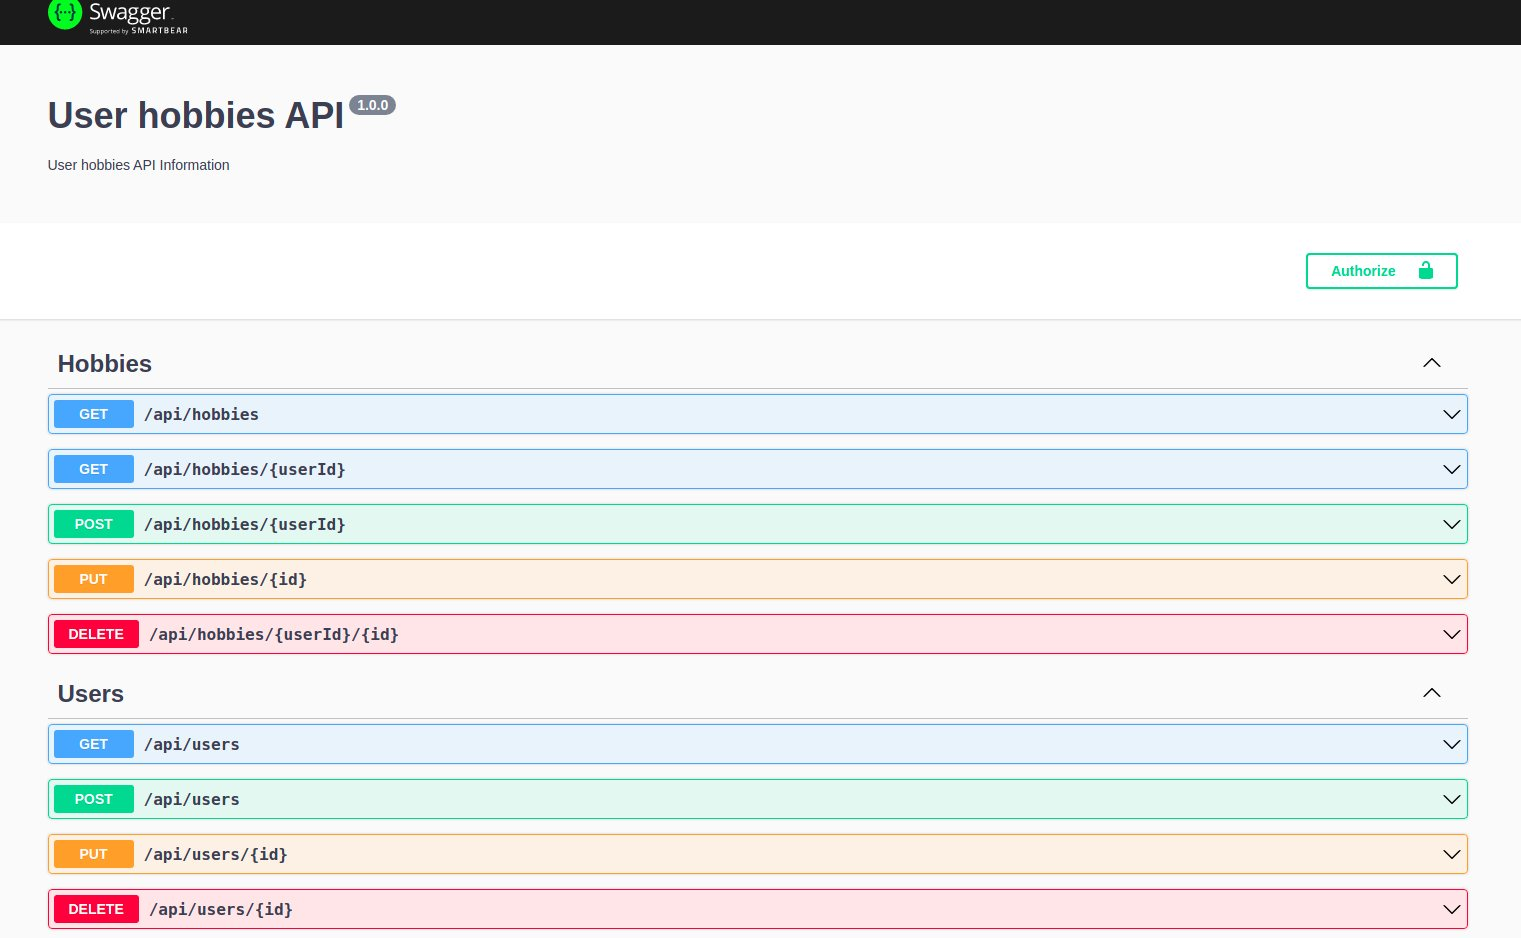
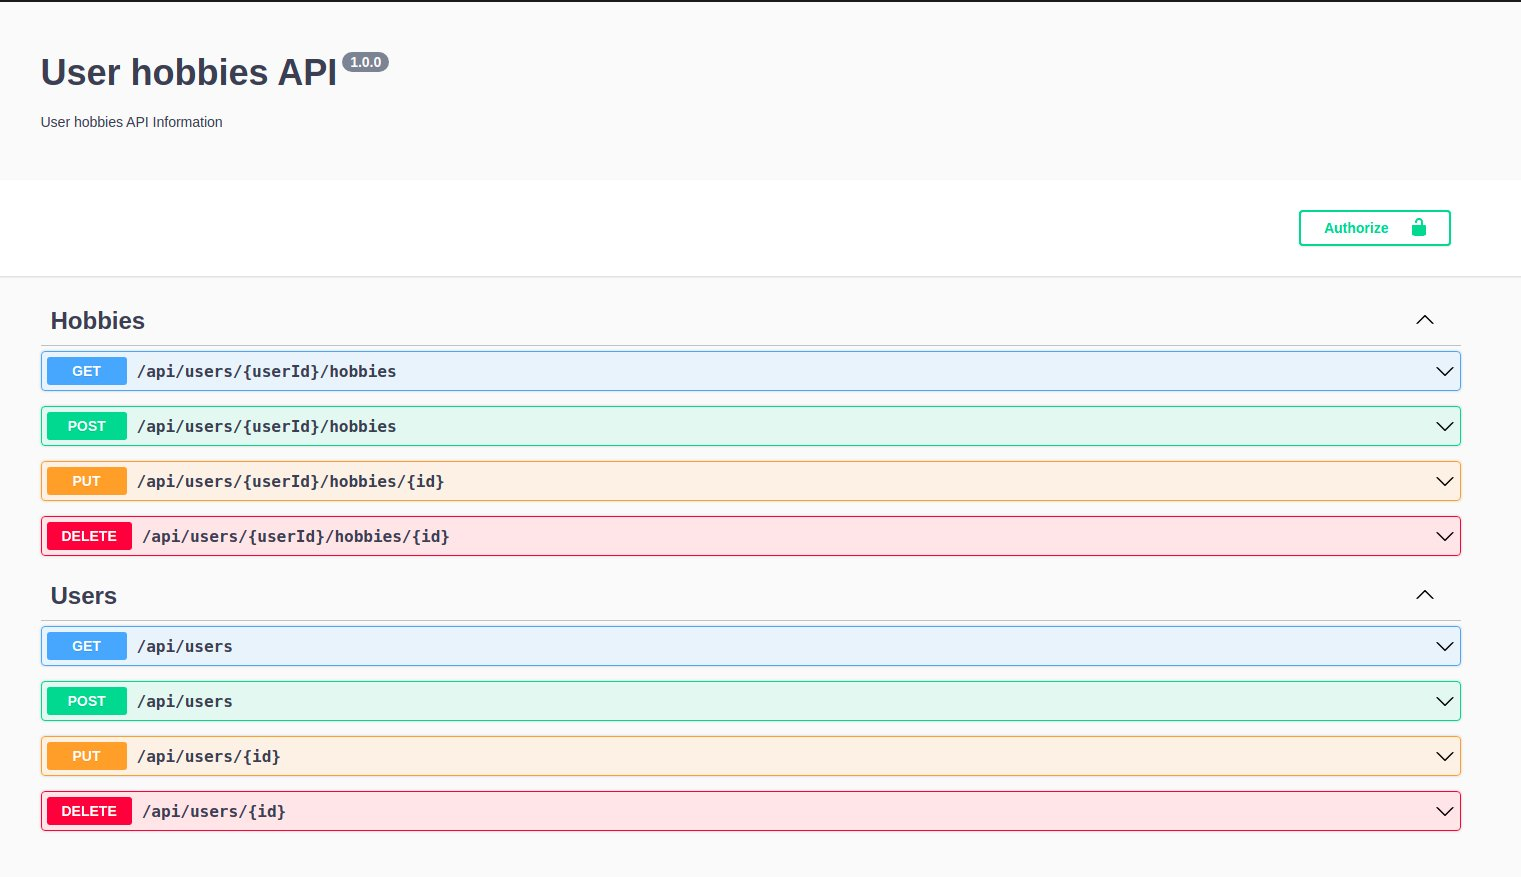
Update the hobbies endpoint
- Update the read me file
- Added config file
- Update the test case

Changed region(s): [[0.0, 0.3387, 0.9888, 1.0], [0.0, 0.0, 1.0, 0.1847], [0.8343, 0.2155, 0.9579, 0.3387]]

diff --git a/test/hobbies.test.ts b/test/hobbies.test.ts
@@ -21,8 +21,8 @@ describe('Hobbies', () => {
         await HobbiesModel.deleteMany({});
     });
 
-    it('it should GET all the hobbies', async () => {
-        const res = await request(app).get('/api/hobbies');
+    it('it should GET all the hobbies by user id', async () => {
+        const res = await request(app).get('/api/users/' + userInfo._id + '/hobbies');
         res.body.data.should.be.a('array');
         res.body.data.length.should.be.eql(0);
     });
@@ -32,7 +32,7 @@ describe('Hobbies', () => {
             "passionLevel": "Medium",
             "year": 2014
         }
-        const res = await request(app).post('/api/hobbies/' + userInfo._id).send(hobby);
+        const res = await request(app).post('/api/users/' + userInfo._id + '/hobbies').send(hobby);
         res.body.should.be.a('object');
         res.body.should.have.property('name').eql("Please provide hobby 'name' key");
     });
@@ -43,30 +43,30 @@ describe('Hobbies', () => {
             "name": "Hobby_1",
             "year": 2014
         }
-        const res = await request(app).post('/api/hobbies/' + userInfo._id).send(hobby);
+        const res = await request(app).post('/api/users/' + userInfo._id + '/hobbies').send(hobby);
         res.body.should.be.a('object');
         res.body.should.have.property('success').eql(true);
     });
 
     it('it should have a hobby named "Hobby_1"', async () => {
-        const res = await request(app).get('/api/hobbies/' + userInfo._id);
+        const res = await request(app).get('/api/users/' + userInfo._id + '/hobbies');
         res.body.data.should.be.a('array');
         res.body.data.length.should.be.eql(1);
         res.body.data[0].should.have.property('name').eql("Hobby_1");
     });
 
     it('it should UPDATE a hobby', async () => {
-        const data = await request(app).get('/api/hobbies/' + userInfo._id);
+        const data = await request(app).get('/api/users/' + userInfo._id + '/hobbies');
         const id = data.body.data[0]._id;
-        const res = await request(app).put('/api/hobbies/' + id).send({ name: 'Hobby_2' });
+        const res = await request(app).put('/api/users/' + userInfo._id + '/hobbies/' + id).send({ name: 'Hobby_2' });
         res.body.should.be.a('object');
         res.body.should.have.property('success').eql(true);
     });
 
     it('it should DELETE a hobby', async () => {
-        const data = await request(app).get('/api/hobbies/' + userInfo._id);
+        const data = await request(app).get('/api/users/' + userInfo._id + '/hobbies');
         const id = data.body.data[0]._id;
-        const res = await request(app).delete('/api/hobbies/'+userInfo._id +"/"+ id);
+        const res = await request(app).delete('/api/users/' + userInfo._id + '/hobbies/' + id);
         res.body.should.be.a('object');
         res.body.should.have.property('success').eql(true);
     });

diff --git a/src/routers/hobbies.router.ts b/src/routers/hobbies.router.ts
@@ -2,31 +2,10 @@ import { Router } from "express";
 import * as hobbiesController from "../controllers/hobbies.controller";
 
 export const hobbiesRouter: Router = Router();
-/**
- * @swagger
- * /api/hobbies:
- *  get:
- *    tags:
- *       - Hobbies
- *    description: Use to request all hobbies
- *    parameters:
- *      - in: query
- *        name: pageSize
- *        type: number
- *        description: Page size of pagination. Default page size is 1000.
- *      - in: query
- *        name: pageNumber
- *        type: number
- *        description: Page number of pagination. Default page number is 1.
- *    responses:
- *      '200':
- *        description: A successful response
- */
-hobbiesRouter.get('/', hobbiesController.getAllHobbies)
 
 /**
  * @swagger
- * /api/hobbies/{userId}:
+ * /api/users/{userId}/hobbies:
  *  get:
  *    tags:
  *       - Hobbies
@@ -49,11 +28,11 @@ hobbiesRouter.get('/', hobbiesController.getAllHobbies)
  *      '200':
  *        description: A successful response
  */
-hobbiesRouter.get('/:userId', hobbiesController.getAllHobbiesByUserId)
+hobbiesRouter.get('/users/:userId/hobbies', hobbiesController.getAllHobbiesByUserId)
 
 /**
  * @swagger
- * /api/hobbies/{userId}:
+ * /api/users/{userId}/hobbies:
  *   post:
  *     tags:
  *       - Hobbies
@@ -83,16 +62,21 @@ hobbiesRouter.get('/:userId', hobbiesController.getAllHobbiesByUserId)
  *           content:
  *              application/json
  */
-hobbiesRouter.post('/:userId', hobbiesController.saveHobbies)
+hobbiesRouter.post('/users/:userId/hobbies', hobbiesController.saveHobbies)
 
 /**
  * @swagger
- * /api/hobbies/{id}:
+ * /api/users/{userId}/hobbies/{id}:
  *   put:
  *     tags:
  *       - Hobbies
  *     description: Update a hobby
  *     parameters:
+ *       - in: path
+ *         name: userId
+ *         required: true
+ *         type: string
+ *         description: User id.
  *       - in: path
  *         name: id
  *         required: true
@@ -116,11 +100,11 @@ hobbiesRouter.post('/:userId', hobbiesController.saveHobbies)
  *           content:
  *              application/json
  */
-hobbiesRouter.put('/:id', hobbiesController.updateHobbies)
+hobbiesRouter.put('/users/:userId/hobbies/:id', hobbiesController.updateHobbies)
 
 /**
  * @swagger
- * /api/hobbies/{userId}/{id}:
+ * /api/users/{userId}/hobbies/{id}:
  *   delete:
  *     tags:
  *       - Hobbies
@@ -142,4 +126,4 @@ hobbiesRouter.put('/:id', hobbiesController.updateHobbies)
  *           content:
  *              application/json
  */
-hobbiesRouter.delete('/:userId/:id', hobbiesController.deleteHobbies)
+hobbiesRouter.delete('/users/:userId/hobbies/:id', hobbiesController.deleteHobbies)

diff --git a/src/controllers/hobbies.controller.ts b/src/controllers/hobbies.controller.ts
@@ -8,27 +8,6 @@ import { serverError, resourceError } from "../services/utils.service"
  * @param  {Request} req
  * @param  {Response} res
  */
-export const getAllHobbies = async (req: Request, res: Response) => {
-
-    try {
-        // pagination
-        const { DEFAULT_PAGE_SIZE, DEFAULT_PAGE_NUMBER } = process.env;
-        const pageNumber: number = Number(req.query.pageNumber) || Number(DEFAULT_PAGE_NUMBER);
-        const pageSize: number = Number(req.query.pageSize) || Number(DEFAULT_PAGE_SIZE)
-        const skip = (pageNumber - 1) * pageSize
-
-        const hobbies = await HobbiesModel.find().limit(pageSize).skip(skip);
-        return res.status(200).json({ success: true, data: hobbies });
-
-    } catch (error: any) {
-        serverError(res, error)
-    }
-}
-
-/**
- * @param  {Request} req
- * @param  {Response} res
- */
 export const getAllHobbiesByUserId = async (req: Request, res: Response) => {
 
     try {

diff --git a/src/index.ts b/src/index.ts
@@ -37,7 +37,7 @@ app.use("/api-docs", swaggerUi.serve, swaggerUi.setup(swaggerDocs));
 
 // routers
 app.use('/api/users', isAuthenticated, userRouter);
-app.use('/api/hobbies', isAuthenticated, hobbiesRouter);
+app.use('/api', isAuthenticated, hobbiesRouter);
 
 app.get('/', (req, res) => {
     res.send('API service is running');

diff --git a/README.md b/README.md
@@ -1,6 +1,6 @@
 # User hobbies
 
-User hobbies management tools
+a simple RESTful API service for User hobbies.
 
 ## Installation
 
@@ -44,7 +44,7 @@ Run `npm run test` to execute the unit tests. For unit test running, we have cre
 The list of unit test: 
 
  - Hobbies
-    - it should GET all the hobbies
+    - it should GET all the hobbies by user id
     - it should not POST a hobby without name key
     - it should POST a hobby
     - it should have a hobby named "Hobby_1"
